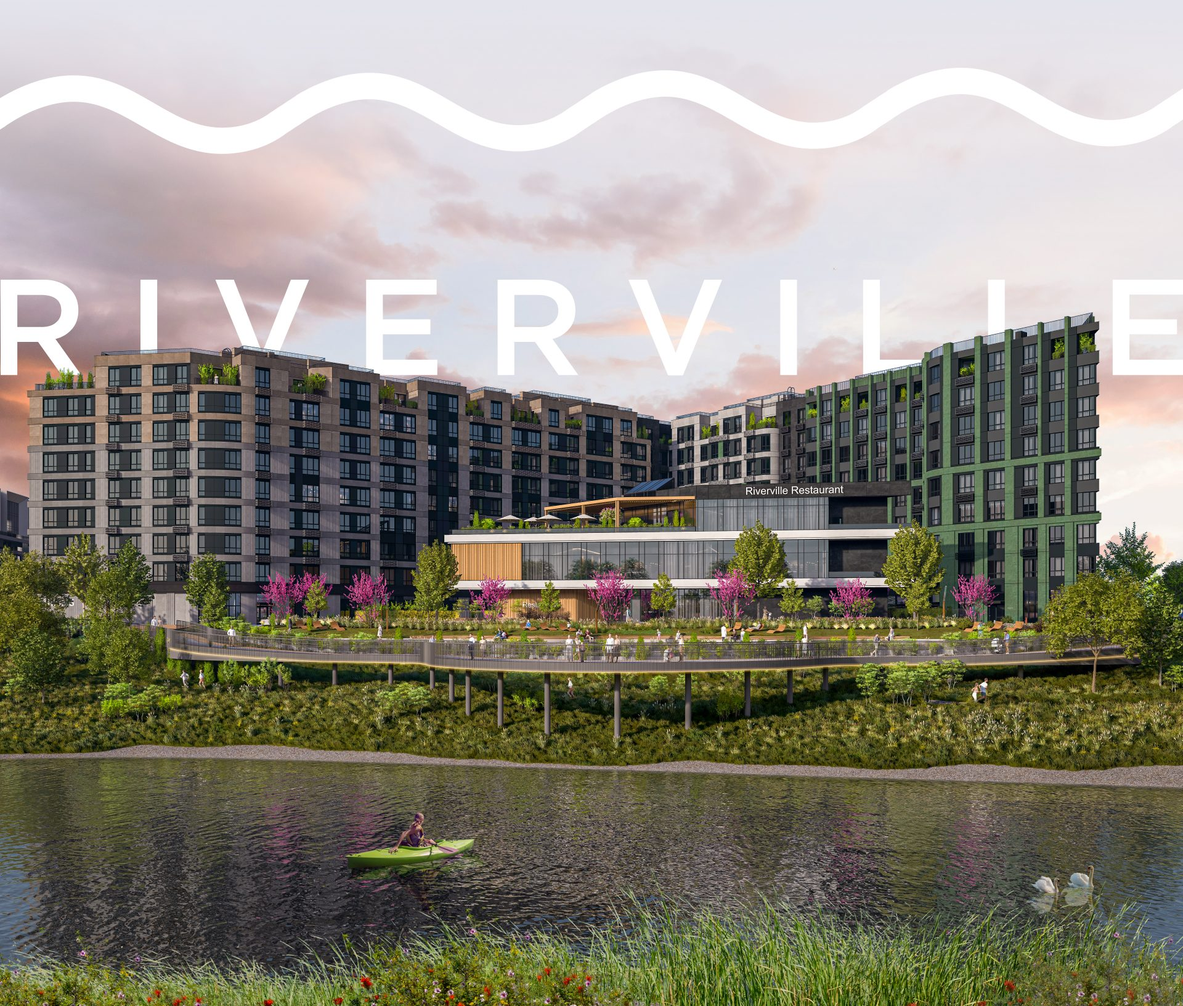
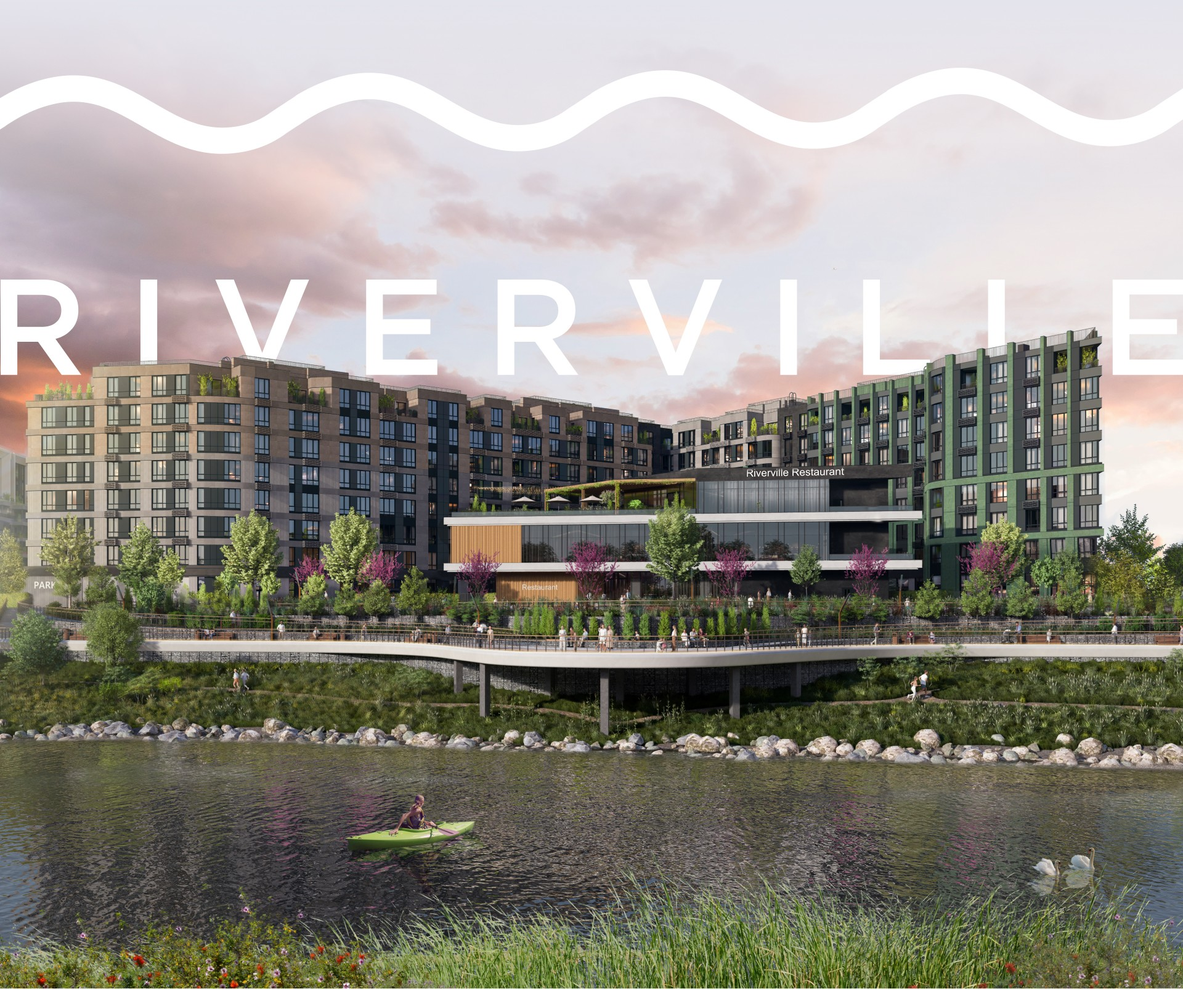
remove slider move on page scroll

diff --git a/src/assets/styles/layouts/home/home-advantages-block.scss b/src/assets/styles/layouts/home/home-advantages-block.scss
@@ -66,17 +66,18 @@
 .home-advantages-block2 {
   position: relative;
   z-index: 2;
-  background-color: var(--color-bg-colour);
+  // background-color: var(--color-bg-colour);
   margin-top: -1px;
   padding-left: 20px;
   padding-bottom: var(--section-v-offset);
   max-width: 100vw;
   overflow: hidden;
   @include from(1025px){
-    height: 400vh;
+    // height: 400vh;
+    margin-top: -20vh;
   }
   @include from(1921px){
-    height: 250vh;
+    // height: 250vh;
   }
   @media screen and (max-width: 600px) {
     // padding-right: 20px;
@@ -104,11 +105,23 @@
     margin-right: auto;
     margin-top: 20px;
     @include from(1025px) {
-      display: none;
+      // display: none;
+      width: 100%;
+      padding-left: var(--page-side-fields);
+      padding-right: var(--page-side-fields);
+      margin-top: 0;
     }
     svg {
       height: 100%;
       width: auto;
+      cursor: pointer;
+      @include from(1025px){
+        background-color: rgba(7, 34, 47, 0.7);
+        border-radius: 50%;
+        path {
+          fill: var(--color-bg-colour);
+        }
+      }
       &.swiper-button-disabled {
         opacity: 0.5;
       }
@@ -128,9 +141,10 @@
   }
   .swiper {
     @include from(1025px){
-      padding-top: calc(var(--header-h) + 30px);
+      // padding-top: calc(var(--header-h) + 30px);
+      padding-top: 50px;
       padding-bottom: 40px;
-      height: 100vh;
+      // height: 100vh;
       display: flex;
       flex-direction: column;
       align-items: center;

diff --git a/src/assets/scripts/home.js b/src/assets/scripts/home.js
@@ -130,25 +130,25 @@ advblock2.on('slideChange', (swiper) => {
   document.querySelector('[data-home-advantages-block2-current]').textContent = pad(swiper.realIndex + 1);
 });
 
-if (window.screen.width > 1024) {
-  gsap.timeline({
-    scrollTrigger: {
-      trigger: '.home-advantages-block2',
-      pin: '.home-advantages-block2 .swiper',
-      start: 'top top',
-      end: 'bottom bottom',
-      onEnter: () => {
-        console.log(advblock2);
+// if (window.screen.width > 1024) {
+//   gsap.timeline({
+//     scrollTrigger: {
+//       trigger: '.home-advantages-block2',
+//       pin: '.home-advantages-block2 .swiper',
+//       start: 'top top',
+//       end: 'bottom bottom',
+//       onEnter: () => {
+//         console.log(advblock2);
         
-      },
-      onUpdate: self => {
-        advblock2.setProgress(self.progress);
-        console.log(self.progress);
+//       },
+//       onUpdate: self => {
+//         advblock2.setProgress(self.progress);
+//         console.log(self.progress);
         
-      }
-    }
-  })
-}
+//       }
+//     }
+//   })
+// }
 // if (document.documentElement.clientWidth > 1024) {
 //   const isSwiperCentered = swiperElement => {
 //     const rect = swiperElement.getBoundingClientRect();

diff --git a/src/assets/styles/layouts/home/home-about-screen.scss b/src/assets/styles/layouts/home/home-about-screen.scss
@@ -34,7 +34,7 @@
             }
         }
         @media screen and (max-width:600px){
-            padding-left: 20px;
+            padding-left: 20px; 
             padding-right: 20px;
             margin-top: 60px;
         }
@@ -48,8 +48,11 @@
     &__top-content {
         position: relative;
         z-index: 2;
-        max-width: 1220px;
+        // max-width: 1220px;
+        max-width: pxWidthInVw(1220);
         margin: auto;
+        padding-left: var(--page-side-fields);
+        padding-right: var(--page-side-fields);
         @include from(1025px){
             // margin-bottom: -10%;
             margin-bottom: 150px;

diff --git a/src/assets/styles/layouts/home/home-front-screen.scss b/src/assets/styles/layouts/home/home-front-screen.scss
@@ -31,6 +31,9 @@
       rgba(228, 228, 236, 0) 100%
     );
     z-index: 2;
+    @include from(1025px){
+      height: 25%;
+    }
     @include to(1024px){
       height: 20%;
     }
